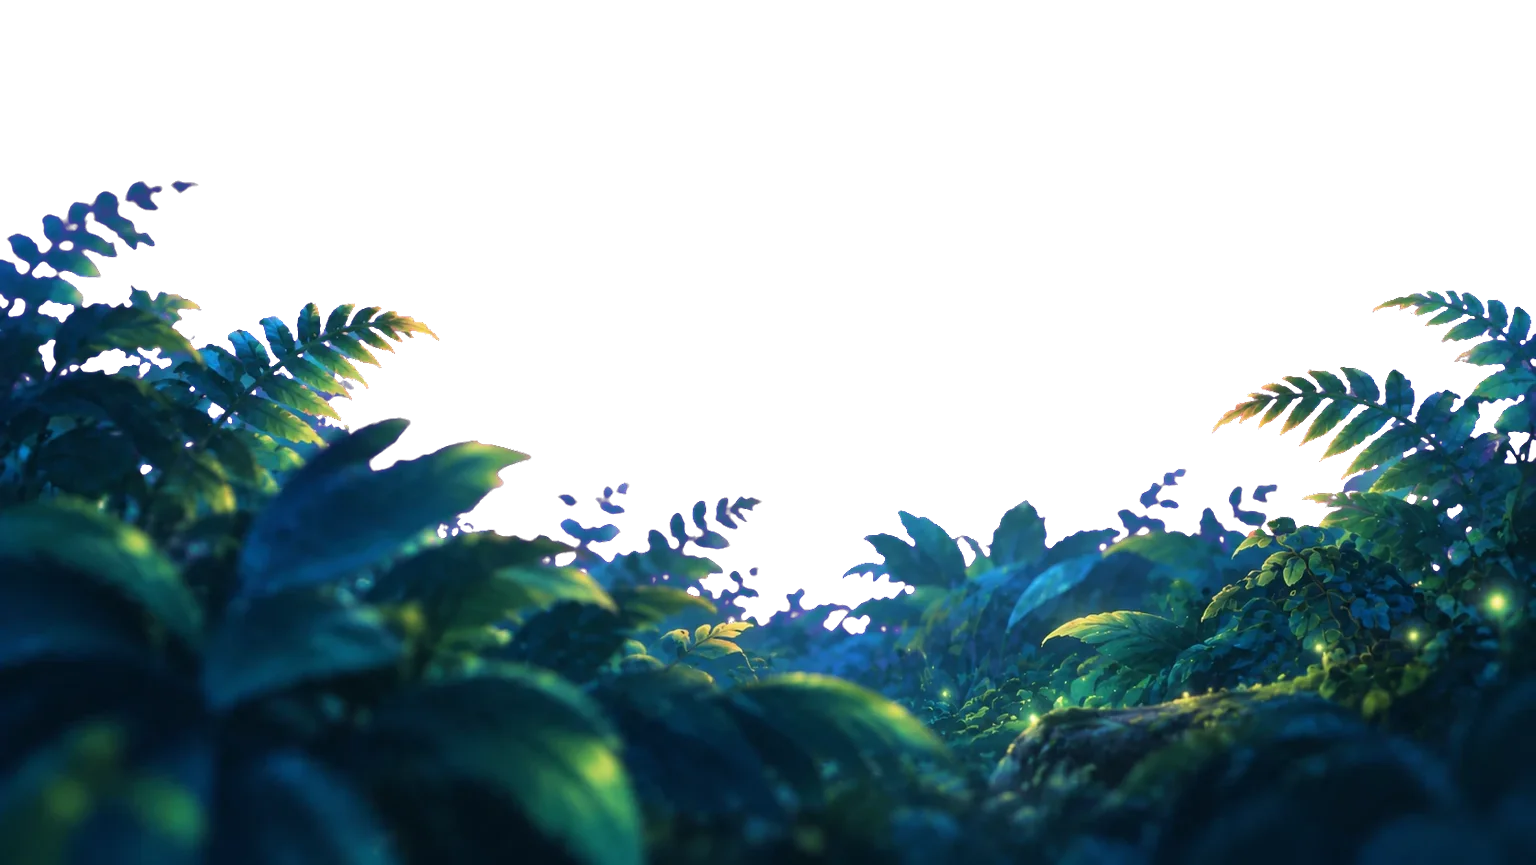
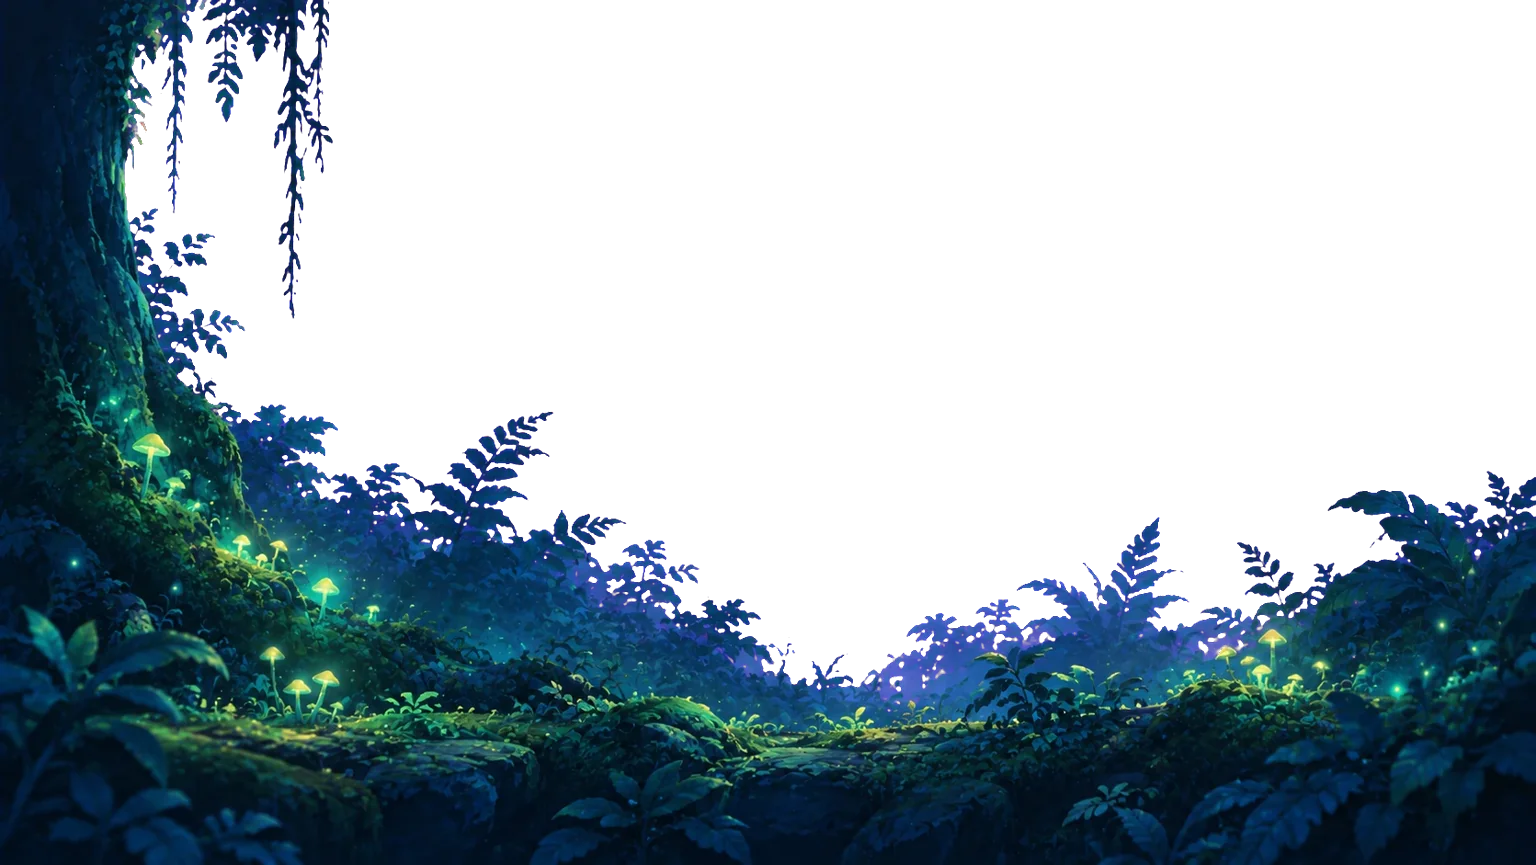
Paint the ledges, and darken the near foliage
ledge-body and ledge-top are in, and fronds-near is replaced with a darker,
less structured painting.

The ledge-top art came back as a whole slab edge — moss on top, rock beneath,
vines trailing off the underside — rather than the thin moss band the slot was
written for, so the drawing suits the art instead: tall enough for the vines to
hang a couple of tiles below the lip, anchored so the moss lines up with the
surface the player stands on rather than with the top of the picture, and
tiled mirrored so the two cut edges of the crop never have to meet.

The keying step can now crop horizontally as well as vertically, which that
slab needs: its ends are rounded, and tiling those gives a row of bumps.

Of the two foliage paintings the darker one is used. The brighter one put a
bed of vivid green across the bottom of the screen that both showed its
mirror seam plainly and competed with the moss, which is now the green the
eye is meant to follow.

Claude-Session: https://claude.ai/code/session_01UXDDdAgq5UcJYM4KvnghYb

diff --git a/src/Game.tsx b/src/Game.tsx
@@ -444,14 +444,30 @@ export default function Game({
 
         const lip = art('ledge-top')
         if (painted(lip)) {
-          const lipH = tile * 0.9
+          /*
+           * The lip is a whole slab edge — moss on top, rock beneath it, vines
+           * trailing off the underside — not a thin strip, so it hangs well
+           * below the platform line. The surface the player stands on sits a
+           * little way down the picture rather than at its top, hence the
+           * offset: line up the moss, not the bounding box.
+           *
+           * Copies alternate mirrored, as the background bands do, because the
+           * two cut edges of a crop never meet but an edge always meets itself.
+           */
+          const lipH = tile * 2.6
           const lipW = lipH * (lip.naturalWidth / lip.naturalHeight)
+          const top = y - lipH * 0.14
           ctx!.save()
           ctx!.beginPath()
-          ctx!.rect(x - 1, y - lipH * 0.6, lw + 2, lipH * 1.2)
+          ctx!.rect(x - 1, y - lipH * 0.4, lw + 2, lipH * 1.6)
           ctx!.clip()
-          for (let tx = x; tx < x + lw; tx += lipW) {
-            ctx!.drawImage(lip, tx, y - lipH * 0.45, lipW, lipH)
+          for (let tx = x; tx < x + lw; tx += lipW * 2) {
+            ctx!.drawImage(lip, tx, top, lipW, lipH)
+            ctx!.save()
+            ctx!.translate(tx + lipW * 2, 0)
+            ctx!.scale(-1, 1)
+            ctx!.drawImage(lip, 0, top, lipW, lipH)
+            ctx!.restore()
           }
           ctx!.restore()
         } else {

diff --git a/scripts/key-assets.py b/scripts/key-assets.py
@@ -26,16 +26,21 @@ HERE = os.path.dirname(os.path.dirname(os.path.abspath(__file__)))
 RAW = os.path.join(HERE, "public", "game", "raw")
 OUT = os.path.join(HERE, "public", "game")
 
-# name -> (key the background out?, crop band as (top, bottom) in 0..1, final width)
+# name -> (key the background out?, crop as (top, bottom) or (top, bottom, left, right)
+#          in 0..1, final width)
 PLAN = {
     "sky":          (False, None,         1536),
     "hills-far":    (True,  None,         1536),
     "forest-mid":   (True,  None,         1536),
     "fronds-near":  (True,  None,         1536),
     "ledge-body":   (False, None,         512),
-    # Generated as a full landscape picture with the moss across the middle;
-    # only that band is wanted.
-    "ledge-top":    (True,  (0.34, 0.70), 512),
+    # Generated as a whole slab sitting in the middle of the frame: moss along
+    # the top, rock under it, vines trailing off the underside. The vertical
+    # crop keeps all three and drops the empty sky and the dead space below the
+    # longest vine. The horizontal crop throws away the rounded ends, which are
+    # where the slab stops being a slab — tile those and you get a row of bumps
+    # instead of a ledge.
+    "ledge-top":    (True,  (0.17, 0.92, 0.10, 0.90), 512),
     "spirit-idle":  (True,  None,         384),
     "spirit-run":   (True,  None,         384),
     "spirit-jump":  (True,  None,         384),
@@ -188,7 +193,9 @@ def main():
         if band:
             top = int(img.height * band[0])
             bottom = int(img.height * band[1])
-            img = img.crop((0, top, img.width, bottom))
+            left = int(img.width * band[2]) if len(band) > 2 else 0
+            right = int(img.width * band[3]) if len(band) > 3 else img.width
+            img = img.crop((left, top, right, bottom))
 
         if needs_key:
             img = key_magenta(img)
